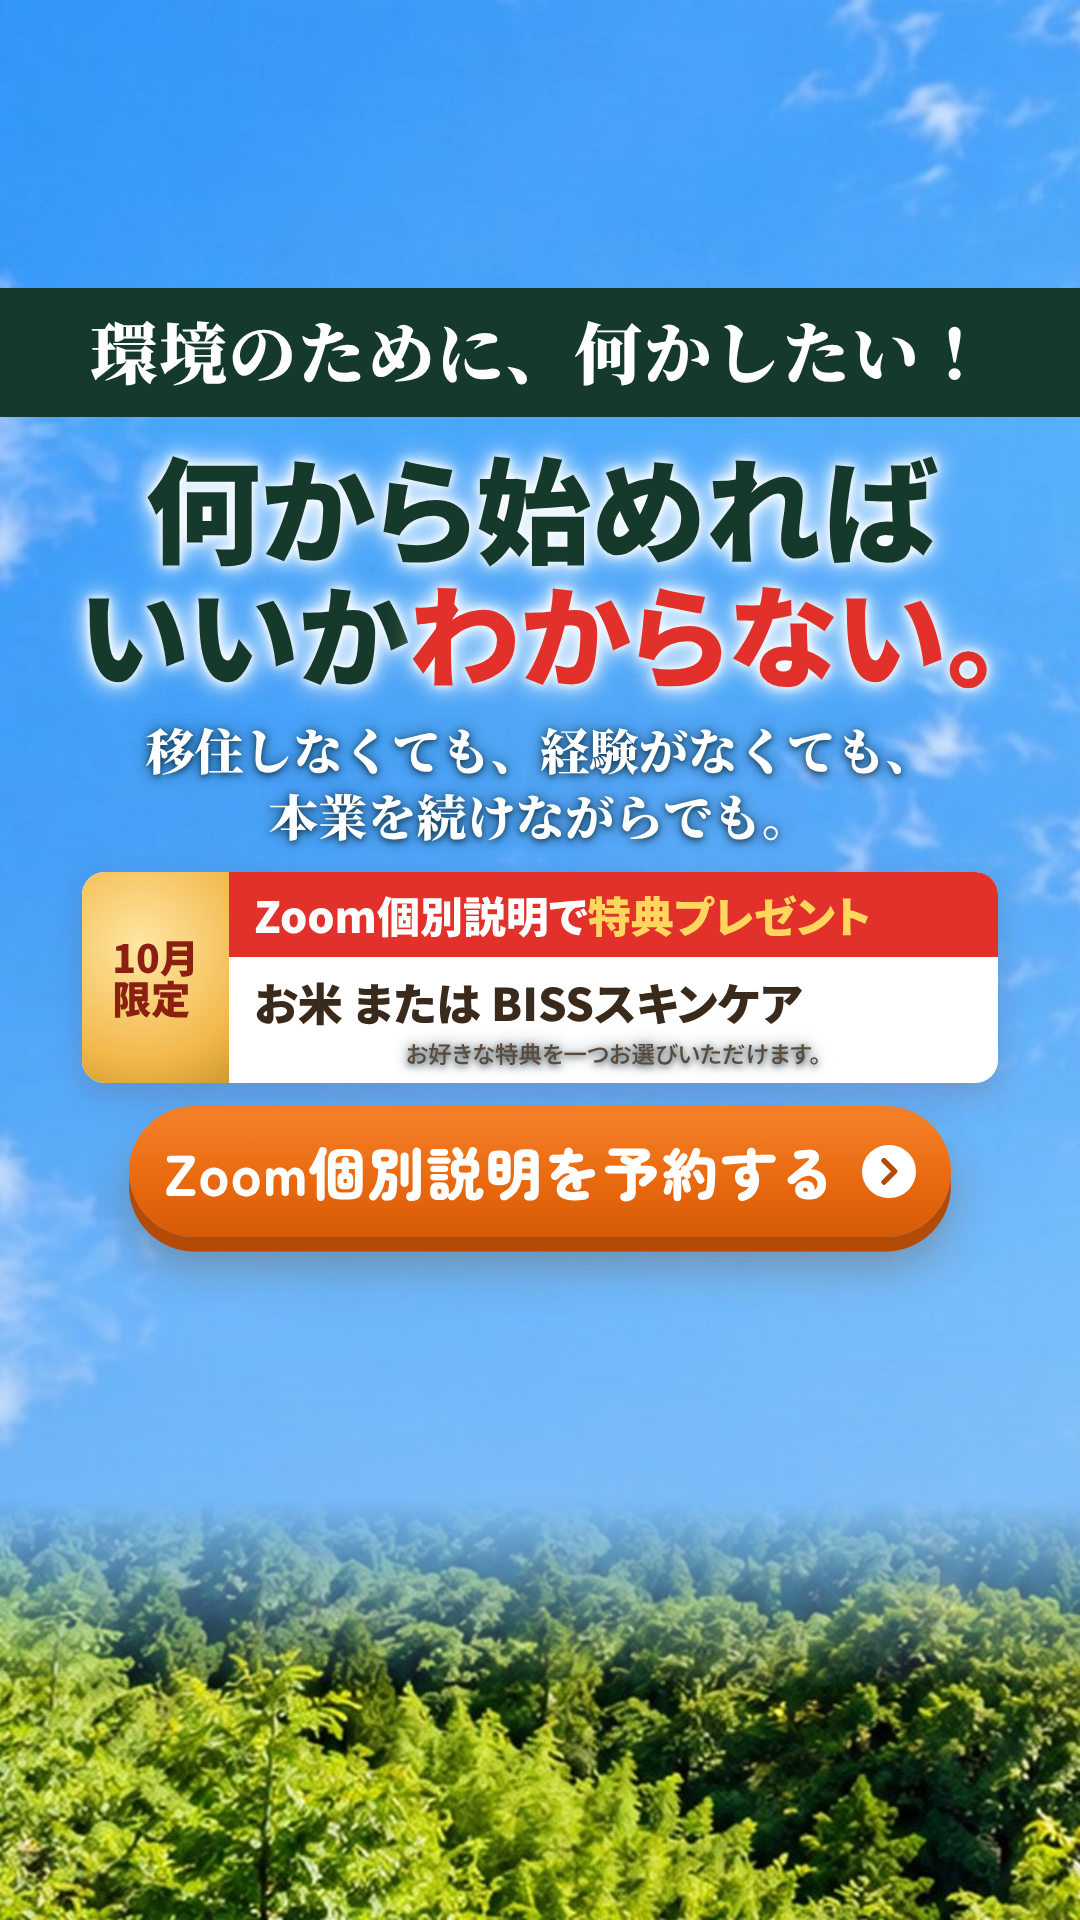
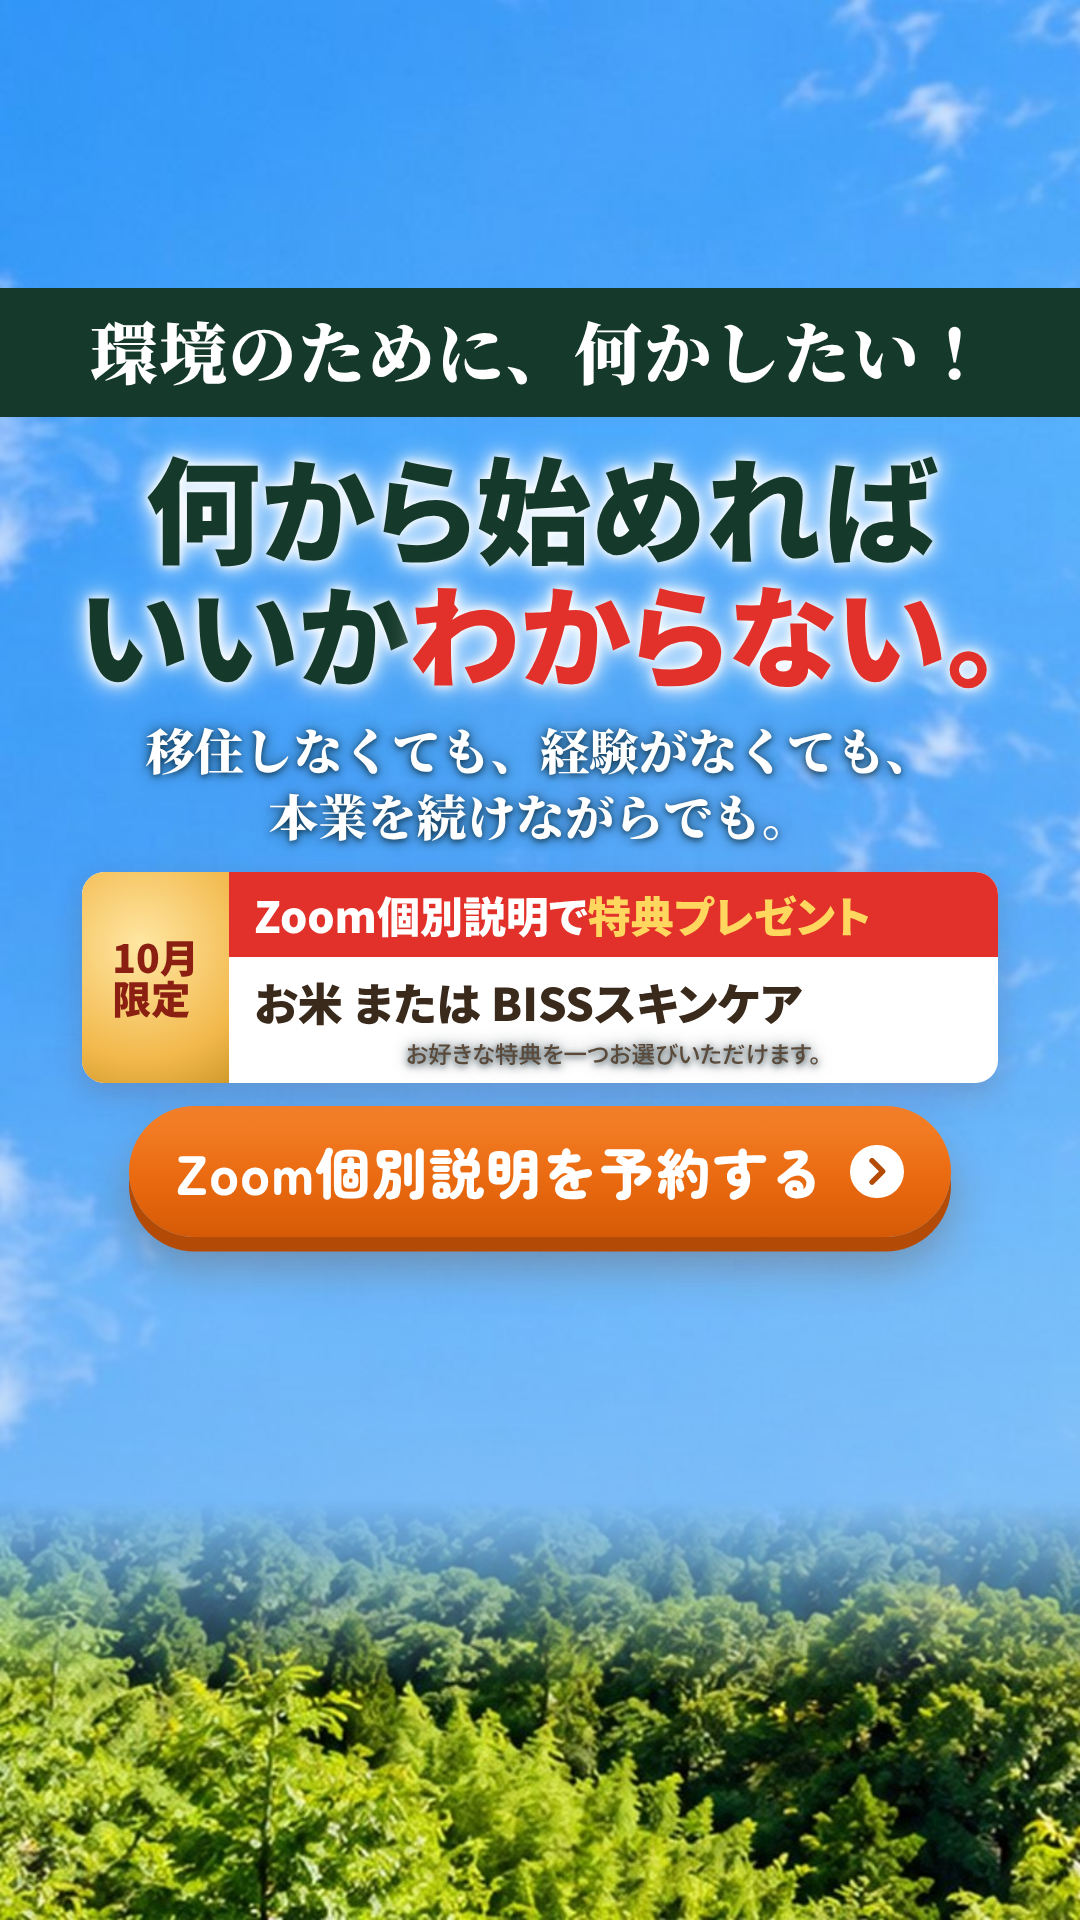
fix: CTAボタンの文字が枠からはみ出す場合に自動で縮小
Claude-Session: https://claude.ai/code/session_01P3SyrgKkzVaKXZHt8wAsTA

Changed region(s): [[0.1528, 0.5938, 0.8556, 0.625]]

diff --git a/ads/blueberry-reel/template/ad.js b/ads/blueberry-reel/template/ad.js
@@ -91,7 +91,16 @@
         b.querySelectorAll('.head, .gift, .sub').forEach((n) => { n.style.fontSize = `${parseFloat(getComputedStyle(n).fontSize) - 1}px`; });
       }
     });
-    const fit = () => { fitBonus(); content.querySelectorAll('.band, .big .ln, .chips').forEach((n) => {
+    // ボタンは「文字＋矢印」が枠に余白付きで収まるまで文字を縮める
+    const fitCta = () => content.querySelectorAll('.cta-btn').forEach((b) => {
+      const label = b.firstElementChild;
+      for (let k = 0; k < 40; k++) {
+        const used = [...b.children].reduce((a, c) => a + c.getBoundingClientRect().width, 0) + 24 * (b.children.length - 1);
+        if (used <= b.getBoundingClientRect().width - 90) break;
+        label.style.fontSize = `${parseFloat(getComputedStyle(label).fontSize) - 1}px`;
+      }
+    });
+    const fit = () => { fitBonus(); fitCta(); content.querySelectorAll('.band, .big .ln, .chips').forEach((n) => {
       if (n.classList.contains('chips')) {
         // チップ行は中身の幅（余白を除く）で判定し、収まらなければ行ごと縮める
         const inner = [...n.children].reduce((a, c) => a + c.getBoundingClientRect().width, 0) + (n.children.length - 1) * 22 * (n.getBoundingClientRect().width / n.offsetWidth || 1);
